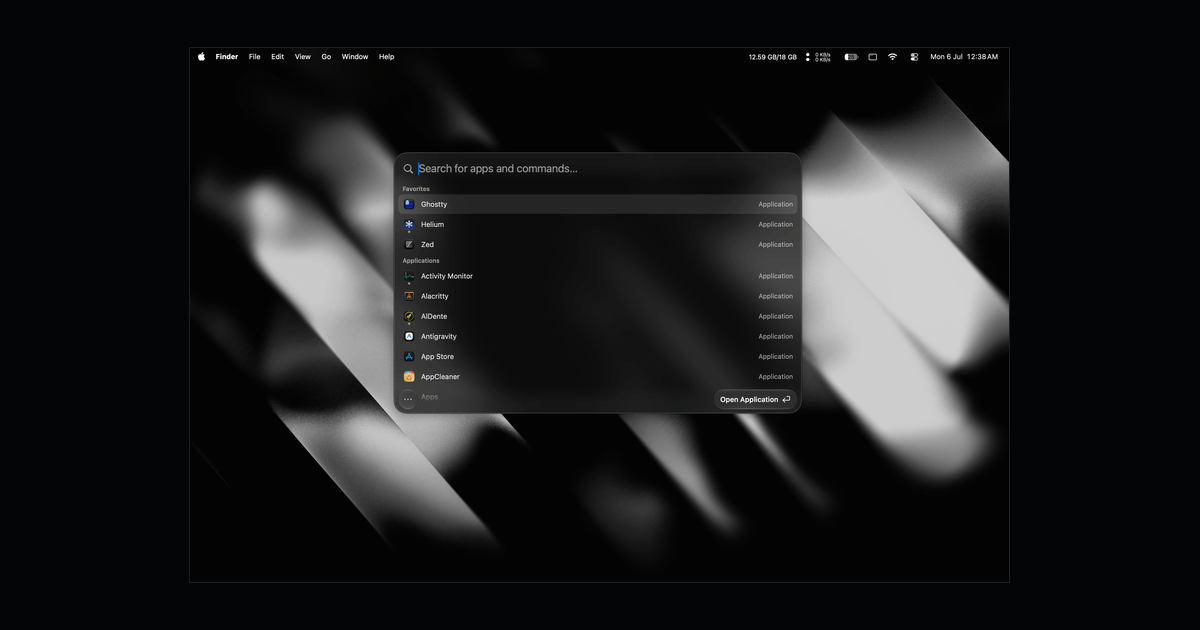
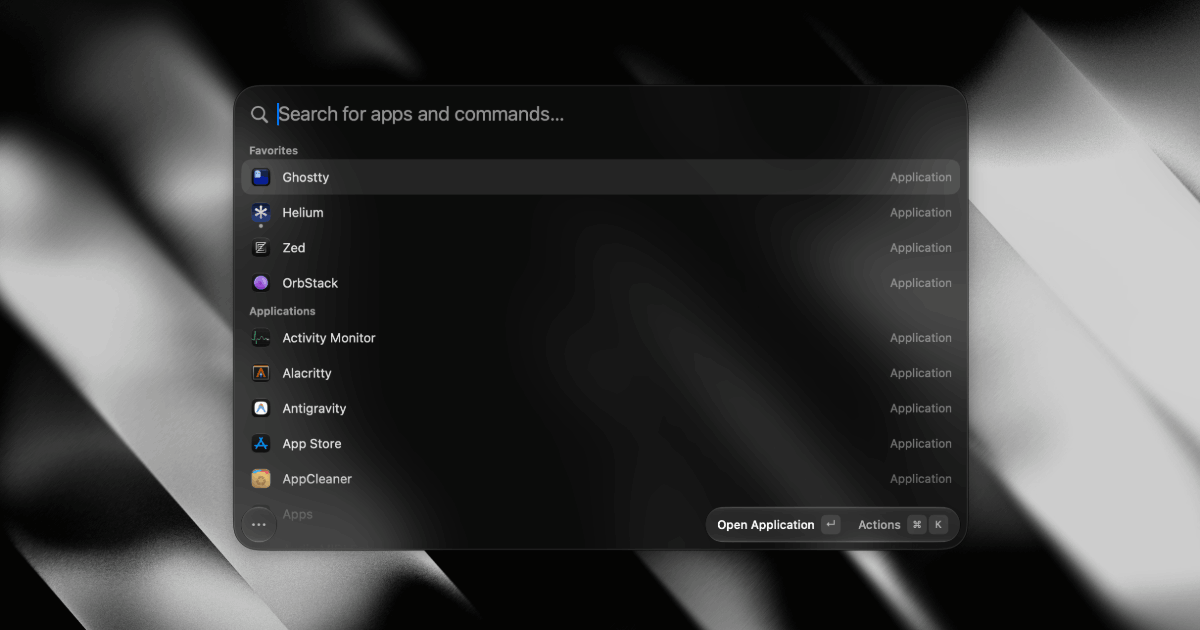
optimization

diff --git a/website/src/components/app-shot.tsx b/website/src/components/app-shot.tsx
@@ -6,8 +6,8 @@ export function AppShot() {
     <figure className="w-full overflow-hidden rounded-2xl shadow-window">
       <img
         src={`${import.meta.env.BASE_URL}screenshot.png`}
-        width={3012}
-        height={1964}
+        width={2451}
+        height={1510}
         alt="Tinycast's launcher floating over the macOS desktop, showing grouped Favorites and Applications with Ghostty selected and an Open Application action."
         className="block h-auto w-full"
         loading="eager"
